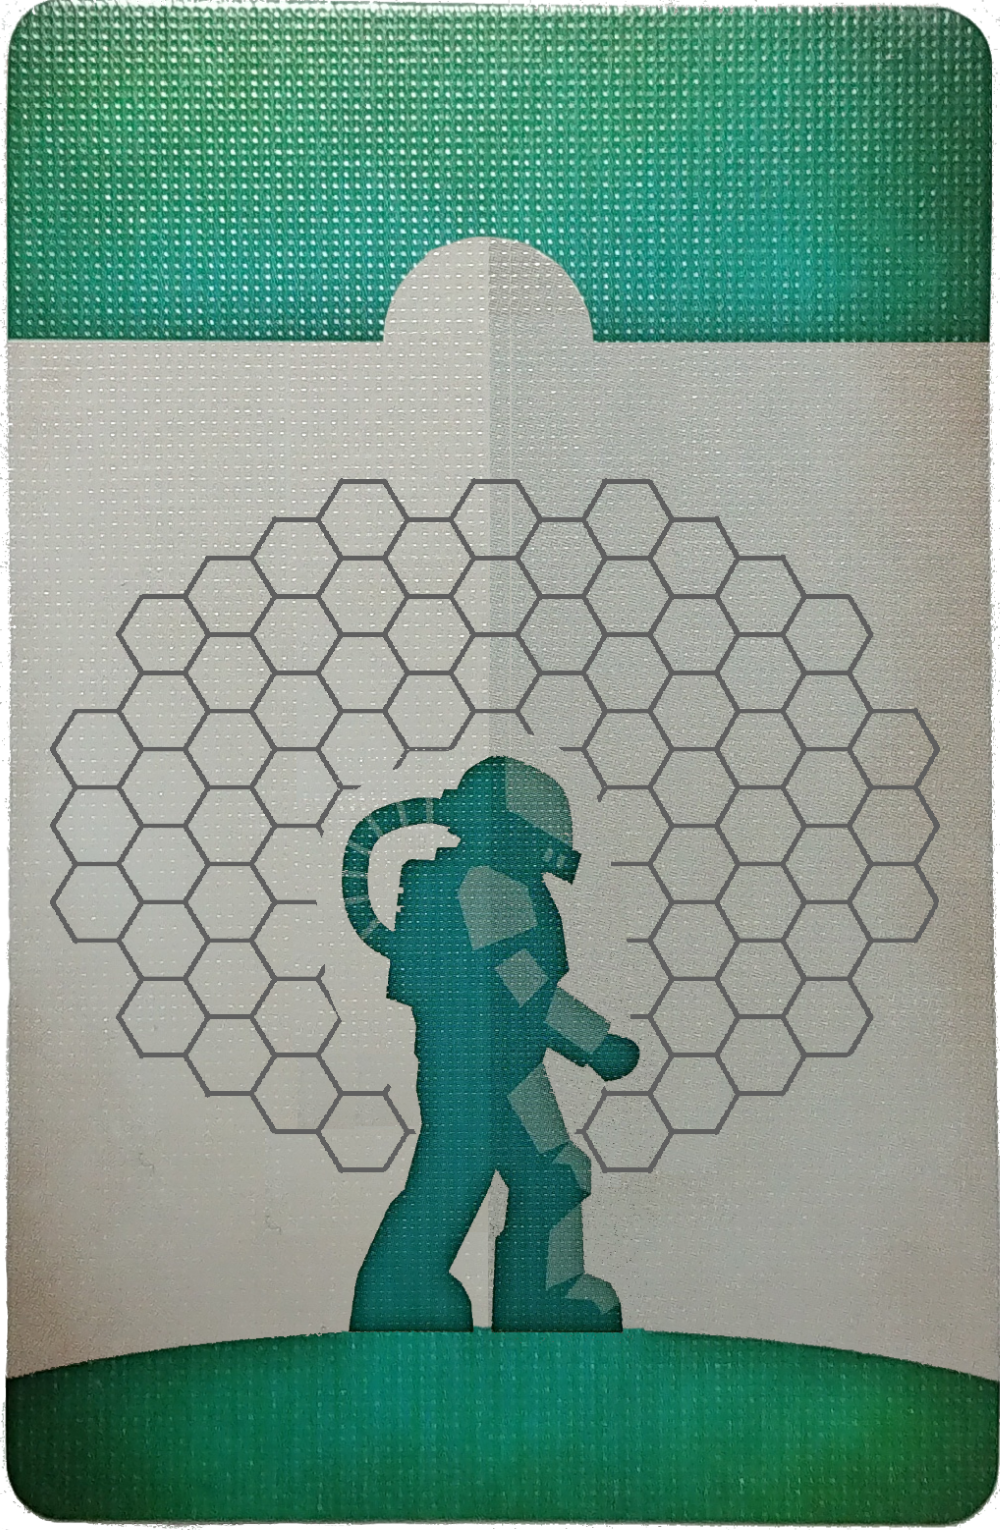
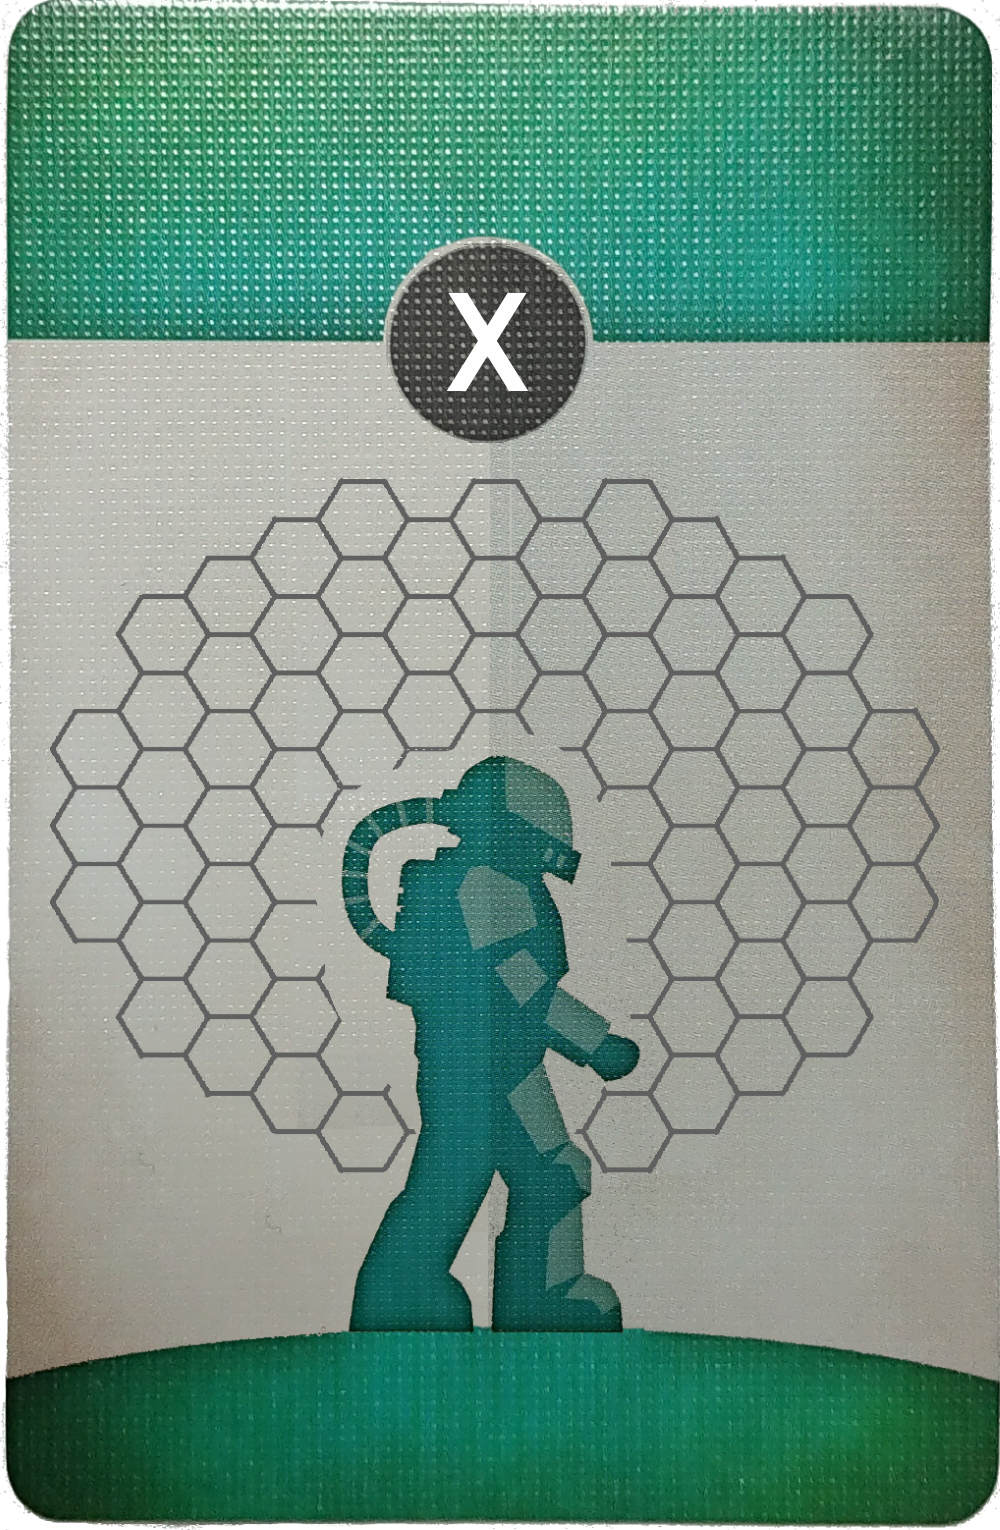
Fix  some gameplay issues
The application used to show Lacerda's next Turn Order spots immediately
when a new card was drawn. This commit fixes that issue by adding a
Shuttle indicator, and revealing Turn Order spots only after an
additional click.

Three random numbers in the ranges 1-4, 1-6 and 1-8 are also added to
the card each Round.

Changed region(s): [[0.372, 0.1536, 0.589, 0.3072]]

diff --git a/docs/index.html b/docs/index.html
@@ -3,7 +3,7 @@
     <head>
     <meta name="mobile-web-app-capable" content="yes">
     <meta name="apple-mobile-web-app-capable" content="yes" /> 
-    <meta name="viewport" content="width=device-width user-scalable=no">
+    <meta name="viewport" content="width=device-width, initial-scale=0.5, maximum-scale=0.5, user-scalable=no">
     <link rel="preload" href="//db.onlinewebfonts.com/t/a082fd3df68a0b54e0d4d794bc38d268.woff2" as="font" type="font/woff2" crossorigin>
     <style>
     @font-face {
@@ -14,6 +14,11 @@
             url("//db.onlinewebfonts.com/t/a082fd3df68a0b54e0d4d794bc38d268.ttf") format("truetype"),
             url("//db.onlinewebfonts.com/t/a082fd3df68a0b54e0d4d794bc38d268.svg#Blender Pro") format("svg"); 
         }
+        canvas {
+            padding: 0;
+            margin: auto;
+            display: block;
+        }
     </style>
     </head>
 
@@ -21,11 +26,13 @@
         <canvas id="card">
             Your browser does not support the HTML5 canvas tag.
         </canvas>
+        <br />
 
         <script type="text/javascript" src="images.js"></script>
         <script type="text/javascript" src="lacerda.js"></script>
         <script>
             var current_card = null;    // XXX: These does not seem to work if placed in lacerda.js or images.js
+            var current_phase = "colonisation";
             var current_round = 0;
             var img_ratio;
 
@@ -48,13 +55,18 @@
                     ctx.fillText(txtRoundLabel, 0.75*c.width, 0.96*c.height);
 
                     ctx.drawImage(actions[card[0]-1], 0, 0, c.width, c.height);
-                    ctx.drawImage(missions[card[1]], 0, 0, c.width, c.height);
                     ctx.drawImage(hex_tiebreakers[card[2]], 0, 0, c.width, c.height);
+                    ctx.drawImage(missions[card[1]], 0, 0, c.width, c.height);
+
+                    ctx.fillStyle = "black";
+                    ctx.font = 40 * (c.width / background.width) + "px Blender Pro";
+                    ctx.fillText("RND4: " + (randInt(4)+1), 0.05*c.width, 0.80*c.height);
+                    ctx.fillText("RND6: " + (randInt(6)+1), 0.05*c.width, 0.82*c.height);
+                    ctx.fillText("RND8: " + (randInt(8)+1), 0.05*c.width, 0.84*c.height);
 
                     if (card.length > 3) {
-                        ctx.drawImage(turnorder, 0, 0, c.width, c.height);
-                        ctx.drawImage(primary_turnorders[card[3]], 0, 0, c.width, c.height);
-                        ctx.drawImage(secondary_turnorders[card[4]], 0, 0, c.width, c.height);
+                        ctx.font = 80 * (c.width / background.width) + "px Blender Pro";
+                        ctx.fillText(">", 0.66*c.width, 0.82*c.height);
                     }
                 }
             }
@@ -63,10 +75,11 @@
                 console.debug("resizing window");
 
                 var c = document.getElementById("card");
+                var b = document.getElementById("btnRandom");
 
                 img_ratio = background.width / background.height;
-                w = 0.95 * window.innerWidth;
-                h = 0.95 * window.innerHeight;
+                w = 0.98 * window.innerWidth;
+                h = 0.98 * window.innerHeight;
                 if (w/h <= img_ratio) {
                     c.width = w;
                     c.height = w / img_ratio;
@@ -74,20 +87,36 @@
                     c.width = h * img_ratio;
                     c.height = h;
                 }
-
                 refresh_canvas(current_card);
+
+                b.width = w;
             }
 
             window.onload = function() {
                 var c = document.getElementById("card");
                 c.onclick = function() {
-                    current_card = draw();
-                    console.debug(current_card);
-                    refresh_canvas(current_card);
-                    if (current_round == 42) {
-                        alert("Congrats! You've just reached the Answer to the Ultimate Question of Life, the Universe, and Everything!");
-                    }
+                    switch (current_phase) {
+                        case "shuttle":
+                            current_phase = "colonisation";
 
+                            var ctx = c.getContext("2d");
+                            ctx.drawImage(turnorder, 0, 0, c.width, c.height);
+                            ctx.drawImage(primary_turnorders[current_card[3]], 0, 0, c.width, c.height);
+                            ctx.drawImage(secondary_turnorders[current_card[4]], 0, 0, c.width, c.height);
+                            break;
+                        case "colonisation":
+                            current_card = draw();
+                            console.debug(current_card);
+                            refresh_canvas(current_card);
+                            if (current_card.length > 3) {
+                                current_phase = "shuttle";
+                            }
+
+                            if (current_round == 42) {
+                                alert("Congrats! You've just reached the Answer to the Ultimate Question of Life, the Universe, and Everything!");
+                            }
+                            break;
+                    }
                 }
 
                 window.onresize();

diff --git a/docs/images.js b/docs/images.js
@@ -51,7 +51,7 @@ var missions = [
     new Image()
 ];
 
-missions[0].src = IMG_BASE + "mission_none.png";
+missions[0].alt = "";
 missions[1].src = IMG_BASE + "mission_a.png";
 missions[2].src = IMG_BASE + "mission_b.png";
 missions[3].src = IMG_BASE + "mission_c.png";
